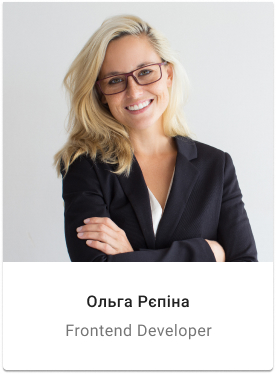
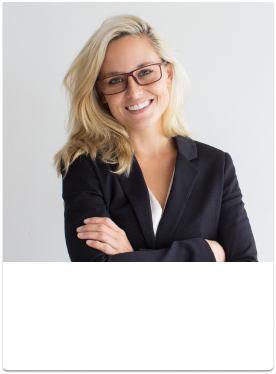
Добавляет футер.исправляет все ошибки

Changed region(s): [[0.2319, 0.8529, 0.7826, 0.9118], [0.3188, 0.7647, 0.6957, 0.8235]]

diff --git a/index.html b/index.html
@@ -1,81 +1,165 @@
 <!DOCTYPE html>
 <html lang="uk">
-<head>
-    <meta charset="UTF-8">
-    <meta http-equiv="X-UA-Compatible" content="IE=edge">
-    <meta name="viewport" content="width=device-width, initial-scale=1.0">
-    <title>WebFlow</title>
-    </head>
+  <head>
+    <meta charset="UTF-8" />
+    <meta http-equiv="X-UA-Compatible" content="IE=edge" />
+    <meta name="viewport" content="width=device-width, initial-scale=1.0" />
+    <title lang="en">WebFlow</title>
+  </head>
 
-<body>
+  <body>
     <header>
-     <nav>
-        <a href="/">WebStudio</a>
+      <nav>
+        <a href="/" lang="en">WebStudio</a>
 
-     <ul>
-        <li><a href="">Студія</a></li>
-        <li><a href="">Портфоліо</a></li>
-        <li><a href="">Контакти</a></li>
-    </ul>
-    </nav>
+        <ul>
+          <li><a href="">Студія</a> <img src="./images/hand.svg" alt="" /></li>
+          <li><a href="">Портфоліо</a></li>
+          <li><a href="">Контакти</a></li>
+        </ul>
+      </nav>
 
-    <ul>
+      <ul>
         <li>
-            <a href="mailto:info@devstudio.com">info@devstudio.com</a></li>
+          <a href="mailto:info@devstudio.com">info@devstudio.com</a>
+          <img src="./images/hand.svg" alt="" />
+        </li>
         <li>
-            <a href="tel:+38 096 111 11 11">+38 096 111 11 11</a></li>
-    </ul>
-
+          <a href="tel:+380961111111">+38 096 111 11 11</a>
+        </li>
+      </ul>
     </header>
 
-    <div>
+    <main>
+      <section>
+        <h1>
+          Ефективні рішення для <br />
+          вашого бізнесу
+        </h1>
+        <button type="button" class="button">Замовити послугу</button>
+      </section>
 
-    <section> 
-        <h1>Ефективні рішення для <br> вашого бізнесу</h1>
-        <button type="button">Замовити послугу</button>
-    </section>
-
-    </div>
-
-    <section>
-<h2>Переваги</h2>
+      <section>
+        <h2>Переваги</h2>
         <ul>
-            <li><h3>УВАГА ДО ДЕТАЛЕЙ</h3>
-            <p>Ідейні міркування, і навіть початок повсякденної роботи з формування позиції.</p></li>
+          <li>
+            <h3>УВАГА ДО ДЕТАЛЕЙ</h3>
+            <p>
+              Ідейні міркування, і навіть початок повсякденної роботи з
+              формування позиції.
+            </p>
+          </li>
 
-            <li><h3>ПУНКТУАЛЬНІСТЬ</h3>
-            <p>Завдання організації, особливо рамки і місце навчання кадрів тягне у себе.</p></li>
+          <li>
+            <h3>ПУНКТУАЛЬНІСТЬ</h3>
+            <p>
+              Завдання організації, особливо рамки і місце навчання кадрів тягне
+              у себе.
+            </p>
+          </li>
 
-            <li><h3>ПЛАНУВАННЯ</h3>
-                <p>Так само консультація з широким активом значною мірою зумовлює.</p></li>
+          <li>
+            <h3>ПЛАНУВАННЯ</h3>
+            <p>
+              Так само консультація з широким активом значною мірою зумовлює.
+            </p>
+          </li>
 
-            <li> 
+          <li>
             <h3>СУЧАСНІ ТЕХНОЛОГІЇ</h3>
-            <p>Значимість цих проблем настільки очевидна, що реалізація планових завдань.</p></li>
+            <p>
+              Значимість цих проблем настільки очевидна, що реалізація планових
+              завдань.
+            </p>
+          </li>
         </ul>
+      </section>
 
-    </section>
-
-    <section>
+      <section>
         <h2>Чим ми займаємося</h2>
         <ul>
-            <li><img src="./images/box1 (1).jpg" width="370px" height="294px" alt="Створення сайту"></li>
-            <li><img src="./images/box 2 (1).jpg" width="370px" height="294px" alt="Розробка мобільної версії сайту"></li>
-            <li><img src="./images/box 3 (1).jpg" width="370px" height="294px" alt="Дизайн"></li>
+          <li>
+            <img
+              src="./images/box1(1).jpg"
+              width="370"
+              height="294"
+              alt="Створення сайту"
+            />
+          </li>
+          <li>
+            <img
+              src="./images/box2(1).jpg"
+              width="370"
+              height="294"
+              alt="Розробка мобільної версії сайту"
+            />
+          </li>
+          <li>
+            <img
+              src="./images/box3(1).jpg"
+              width="370"
+              height="294"
+              alt="Дизайн"
+            />
+          </li>
         </ul>
-    </section>
+      </section>
 
-    <section>
+      <section>
         <h2>Наша команда</h2>
         <ul>
-            <li><img src="./images/team card 1 (1).jpg" width="270px" height="368px" alt="Ігор Дем'яненко"></li>
-            <li><img src="./images/team card 2 (1).jpg" width="270px" height="368px" alt="Ольга Рєпіна"></li>
-            <li><img src="./images/team card 3 (1).jpg" width="270px" height="368px" alt="Микола Тарасов"></li>
-            <li><img src="./images/team card 4 (1).jpg" width="270px" height="368px" alt="Михайло Єрмаков"></li>
+          <li>
+            <img
+              src="./images/teamcard1(1).jpg"
+              width="270"
+              height="368"
+              alt="Ігор Дем'яненко"
+            />
+            <h3>Ігор Дем'яненко</h3>
+            <p>Product Designer</p>
+          </li>
+
+          <li>
+            <img
+              src="./images/teamcard2(1).jpg"
+              width="270"
+              height="368"
+              alt="Ольга Рєпіна"
+            />
+            <h3>Ольга Рєпіна</h3>
+            <p>Frontend Developer</p>
+          </li>
+
+          <li>
+            <img
+              src="./images/teamcard3(1).jpg"
+              width="270"
+              height="368"
+              alt="Микола Тарасов"
+            />
+            <h3>Микола Тарасов</h3>
+            <p>Marketing</p>
+          </li>
+
+          <li>
+            <img
+              src="./images/card4(1).jpg"
+              width="270"
+              height="368"
+              alt="Михайло Єрмаков"
+            />
+            <h3>Михайло Єрмаков</h3>
+            <p>UI Designer</p>
+          </li>
         </ul>
-    </section>
+      </section>
+    </main>
 
-
-</body>
-
+    <footer>
+      <a href="/" lang="en">WebStudio</a>
+      <address>м. Київ, пр-т Лесі Українки, 26</address>
+      <a href="mailto:info@devstudio.com">info@devstudio.com</a>
+      <a href="tel:+380961111111">+38 096 111 11 11</a>
+    </footer>
+  </body>
 </html>
